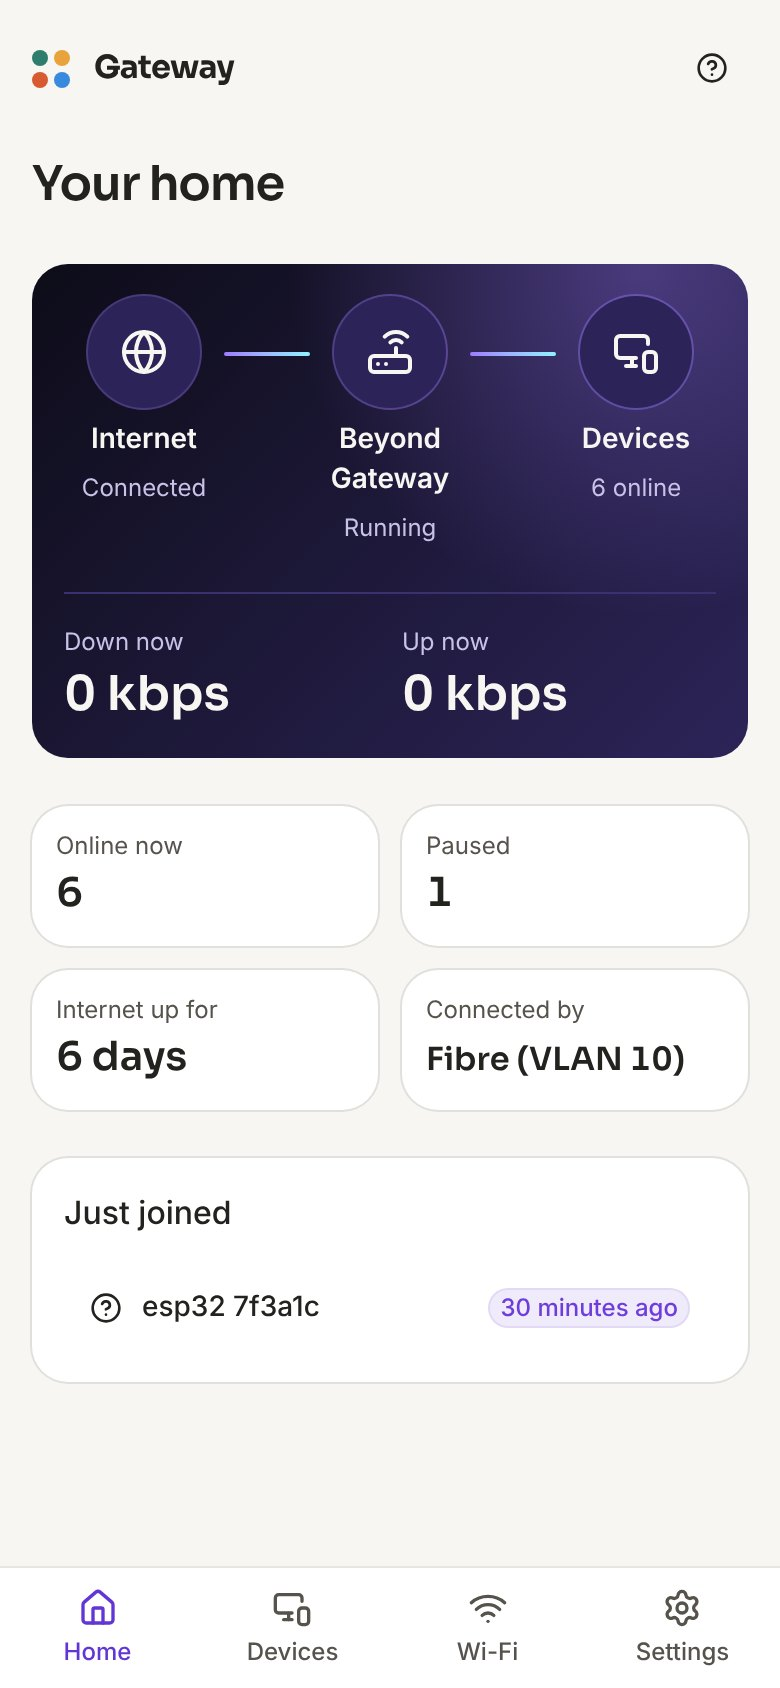
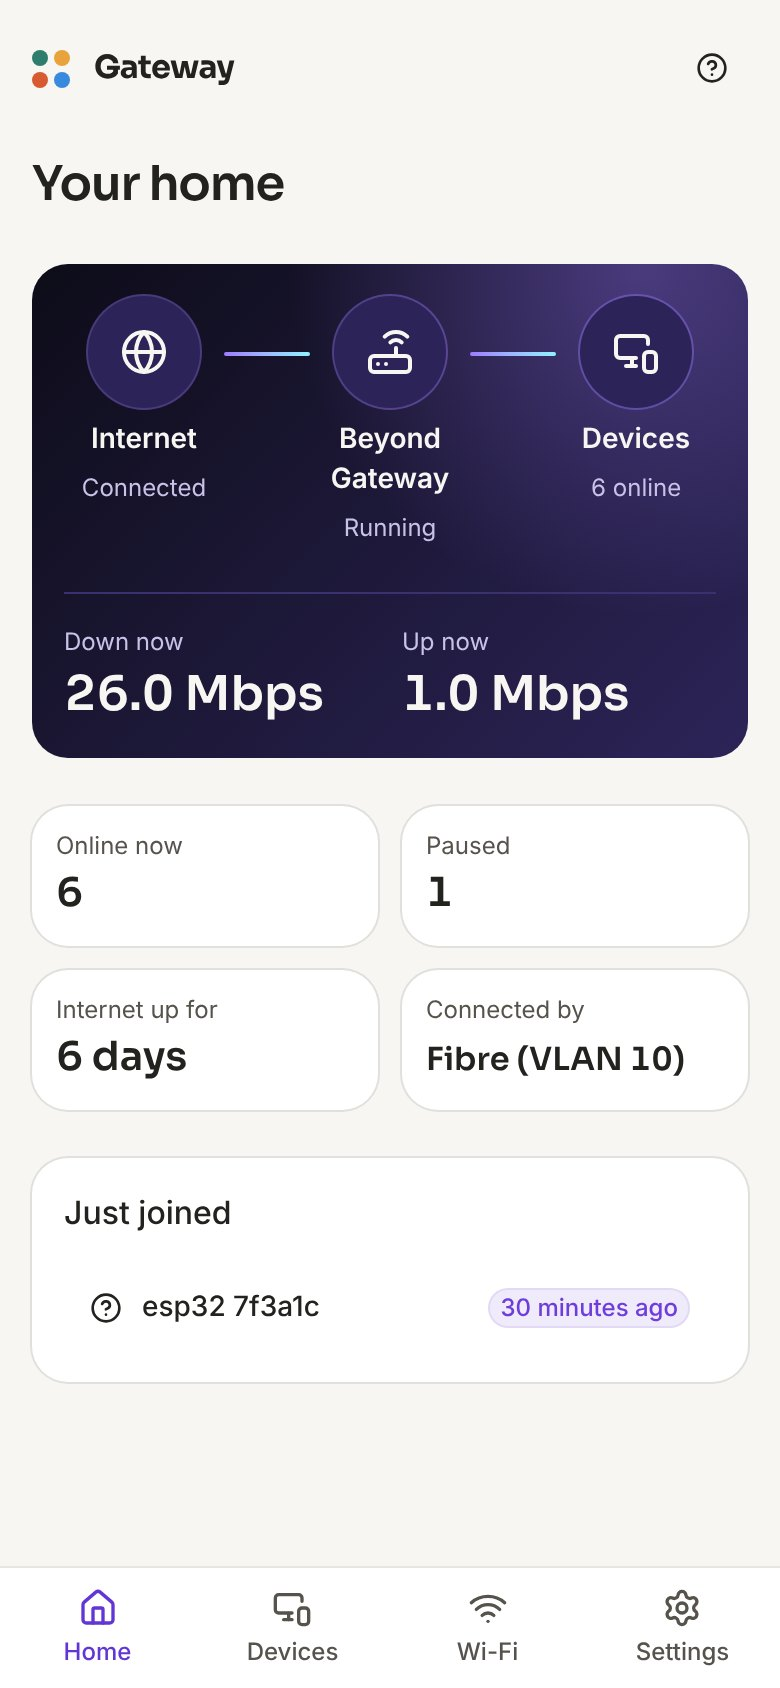
Keep the last speed when two readings land in the same second, and fresh pictures with live speeds
Claude-Session: https://claude.ai/code/session_01XPeR1pDdYnexkcAt3cku6r

Changed region(s): [[0.0923, 0.4005, 0.4308, 0.4313], [0.5231, 0.4005, 0.8, 0.4313]]

diff --git a/web/src/screens/Home.tsx b/web/src/screens/Home.tsx
@@ -56,6 +56,8 @@ export function Home() {
     const s = (await beyond.status().catch(() => null)) as Status | null
     if (!s) return
     const cur = { time: s.time, rx: s.wan.counters.rx, tx: s.wan.counters.tx }
+    // Two readings in the same second say nothing about speed: keep the last one rather than showing 0.
+    if (prev.current && cur.time <= prev.current.time) return setStatus(s)
     setRate(prev.current ? lib.rateBetween(prev.current, cur) : null)
     prev.current = cur
     setStatus(s)
